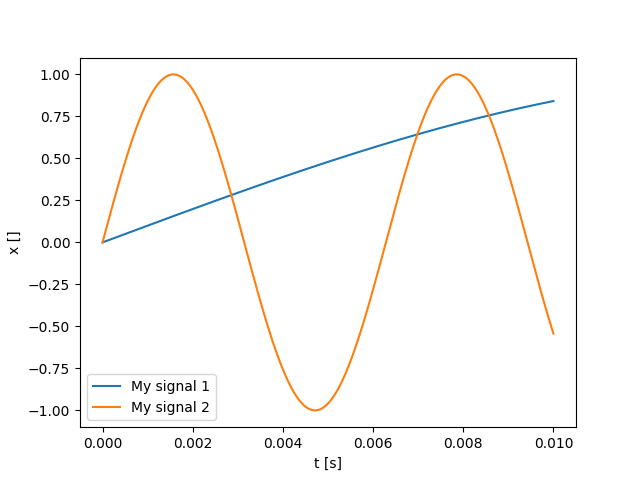
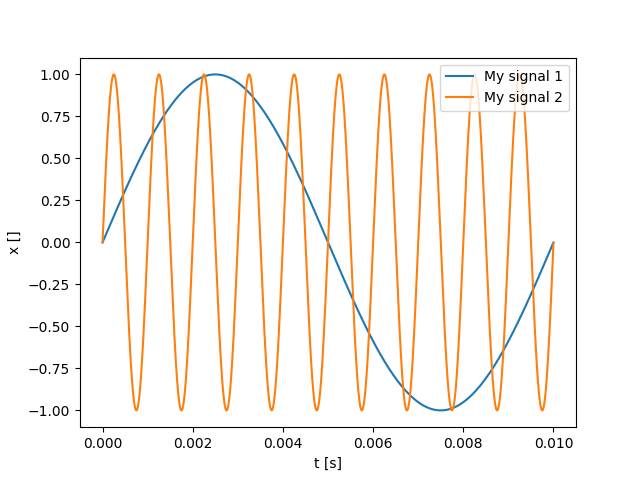
done Ass1

Changed region(s): [[0.125, 0.125, 0.875, 0.875]]

diff --git a/Assignment 1/Assignment1.py b/Assignment 1/Assignment1.py
@@ -4,13 +4,13 @@ import matplotlib.pyplot as plt
 from scipy import signal
 from time import sleep
 
-def x1func(x):
+def x1func(t):
     x1f = 100
-    return np.sin(x1f*x)
+    return np.sin(x1f*2*np.pi*t)
 
-def x2func(x):
+def x2func(t):
     x2f = 1000
-    return np.sin(x2f*x)
+    return np.sin(x2f*2*np.pi*t)
 
 # Time step delta t
 dt = 0.000001
@@ -24,15 +24,8 @@ t = np.arange(start_time, stop_time, dt) # (start, stop, increment)
 # Generate signals with np.sin(t)
 ###################################
 
-x1 = np.zeros(int((stop_time - start_time)/dt))
-x2 = np.zeros(int((stop_time - start_time)/dt))
-
-## 
-i = 0
-for time in t:
-    x1[i] = x1func(time)
-    x2[i] = x2func(time)
-    i+=1
+x1 = np.array([x1func(time) for time in t])
+x2 = np.array([x2func(time) for time in t])
 
 #1c
 # Play the two signals x1(t) and x2(t)
@@ -84,17 +77,13 @@ t2 = np.arange(start_time, stop_time, dt) # (start, stop, increment)
 # Generate signals with np.sin(t)
 ###################################
 
-x = np.zeros(int((stop_time - start_time)/dt)+1)
+x = np.array([h(time) for time in t2])
 
 dirac_x = np.zeros(int((stop_time - start_time)/dt)+1)
 dirac_x[0] = 1/dt
 
 dirac_y = y(dirac_x, start_time, stop_time, dt)
 
-## 
-for (i,time) in enumerate(t2):
-    
-    x[i] = h(time)
 
 # Create new figure
 fig, ax = plt.subplots()
